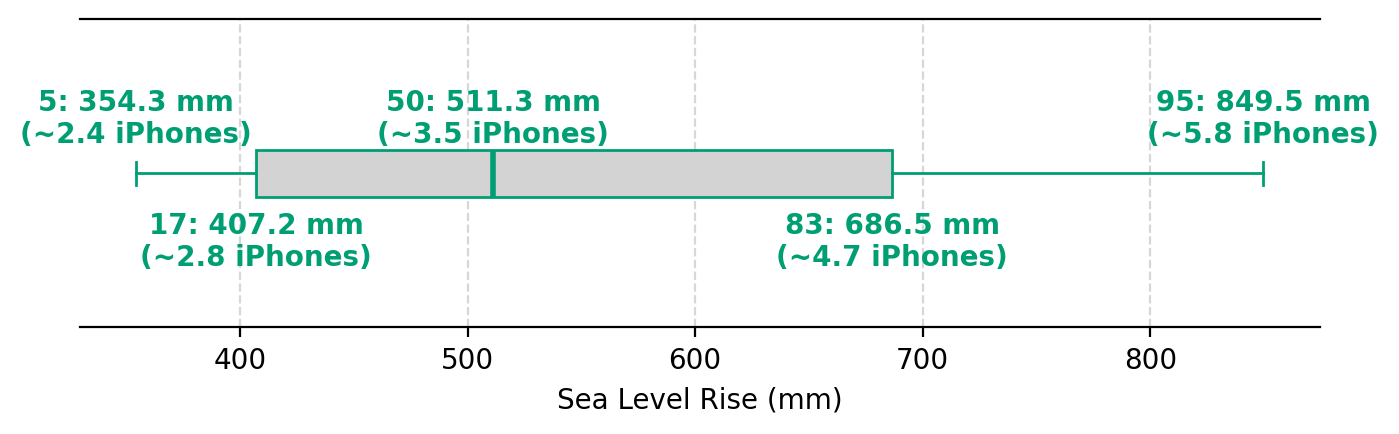
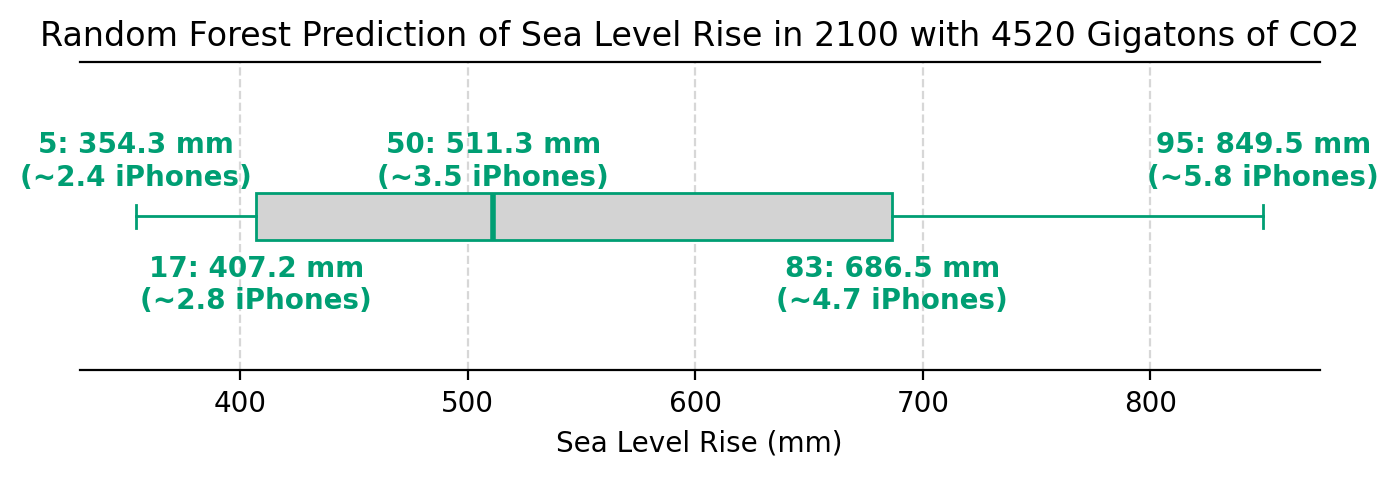
Updating figure

diff --git a/index.md b/index.md
@@ -120,34 +120,43 @@ For visualizing the topography of Florida corresponded to different sea level ri
 <details>
   <summary>Pattern Scaling:</summary>
 
-  <img src="assets/figures/PS_Sanibel_4520.png" alt="PS Sanibel Island" style="width:50%;">
-  <img src="assets/figures/ps_boxplot_4520.png" alt="PS Boxplot" style="width:50%;">
+  <div style="text-align:center;">
+    <img src="assets/figures/PS_Sanibel_4520.png" alt="PS Sanibel Island" style="width:50%;"><br>
+    <img src="assets/figures/ps_boxplot_4520.png" alt="PS Boxplot" style="width:50%;">
+  </div>
 
 </details>
 
 <details>
   <summary>Gaussian Process:</summary>
 
-  <img src="assets/figures/GP_Sanibel_4520.png" alt="GP Sanibel Island" style="width:50%;">
-  <img src="assets/figures/gp_boxplot_4520.png" alt="GP Boxplot" style="width:50%;">
+  <div style="text-align:center;">
+    <img src="assets/figures/GP_Sanibel_4520.png" alt="GP Sanibel Island" style="width:50%;"><br>
+    <img src="assets/figures/gp_boxplot_4520.png" alt="GP Boxplot" style="width:50%;">
+  </div>
 
 </details>
 
 <details>
   <summary>Random Forest:</summary>
 
-  <img src="assets/figures/RF_Sanibel_4520.png" alt="RF Sanibel Island" style="width:50%;">
-  <img src="assets/figures/rf_boxplot_4520.png" alt="RF Boxplot" style="width:50%;">
+  <div style="text-align:center;">
+    <img src="assets/figures/RF_Sanibel_4520.png" alt="RF Sanibel Island" style="width:50%;"><br>
+    <img src="assets/figures/rf_boxplot_4520.png" alt="RF Boxplot" style="width:50%;">
+  </div>
 
 </details>
 
 <details>
   <summary>CNN-LTSM:</summary>
 
-  <img src="assets/figures/CNN_Sanibel_4520.png" alt="CNN Sanibel Island" style="width:50%;">
-  <img src="assets/figures/cnn_boxplot_4520.png" alt="CNN Boxplot" style="width:50%;">
+  <div style="text-align:center;">
+    <img src="assets/figures/CNN_Sanibel_4520.png" alt="CNN Sanibel Island" style="width:50%;"><br>
+    <img src="assets/figures/cnn_boxplot_4520.png" alt="CNN Boxplot" style="width:50%;">
+  </div>
 
 </details>
+
 
 </details>
 <div style="height: 0.5em;"></div>
